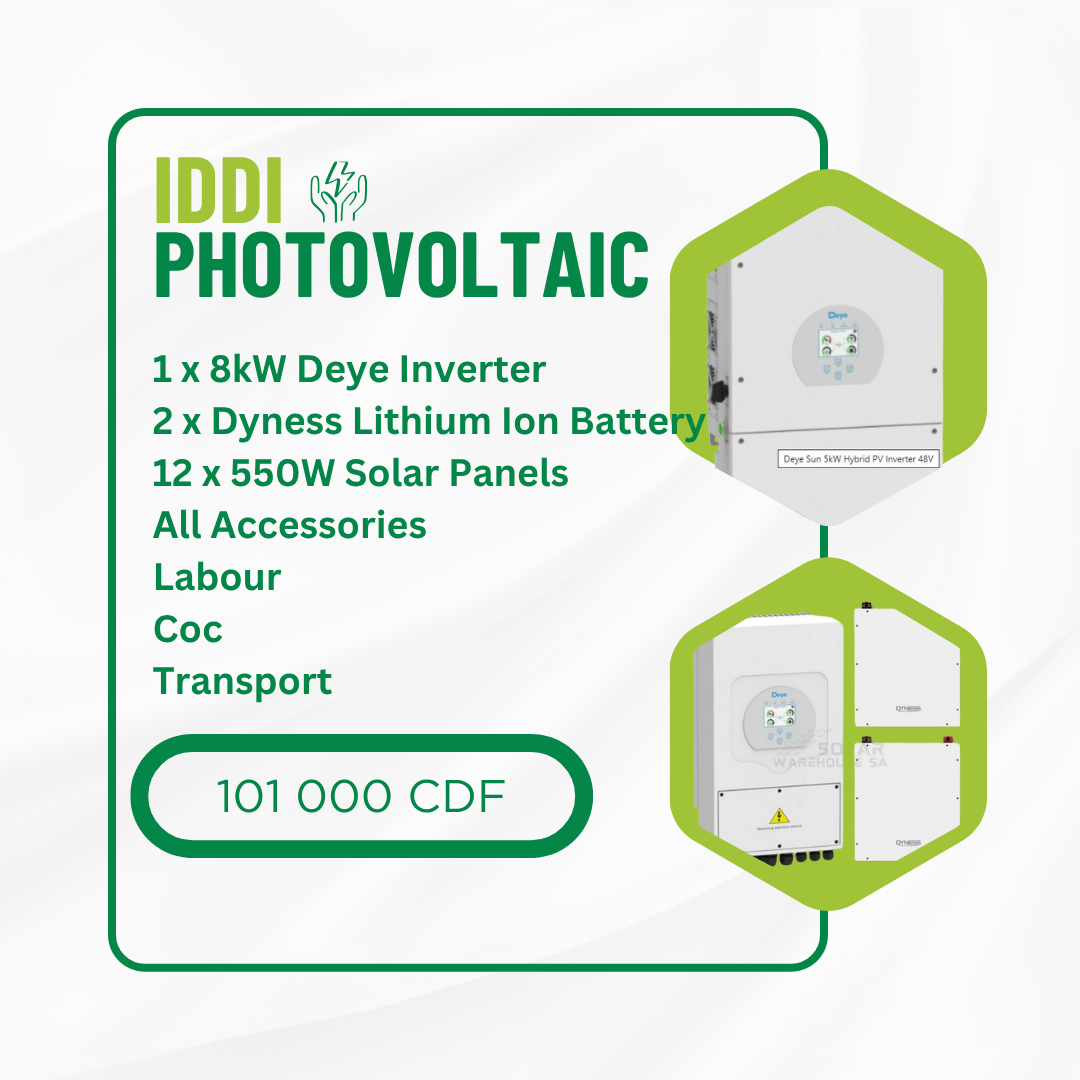
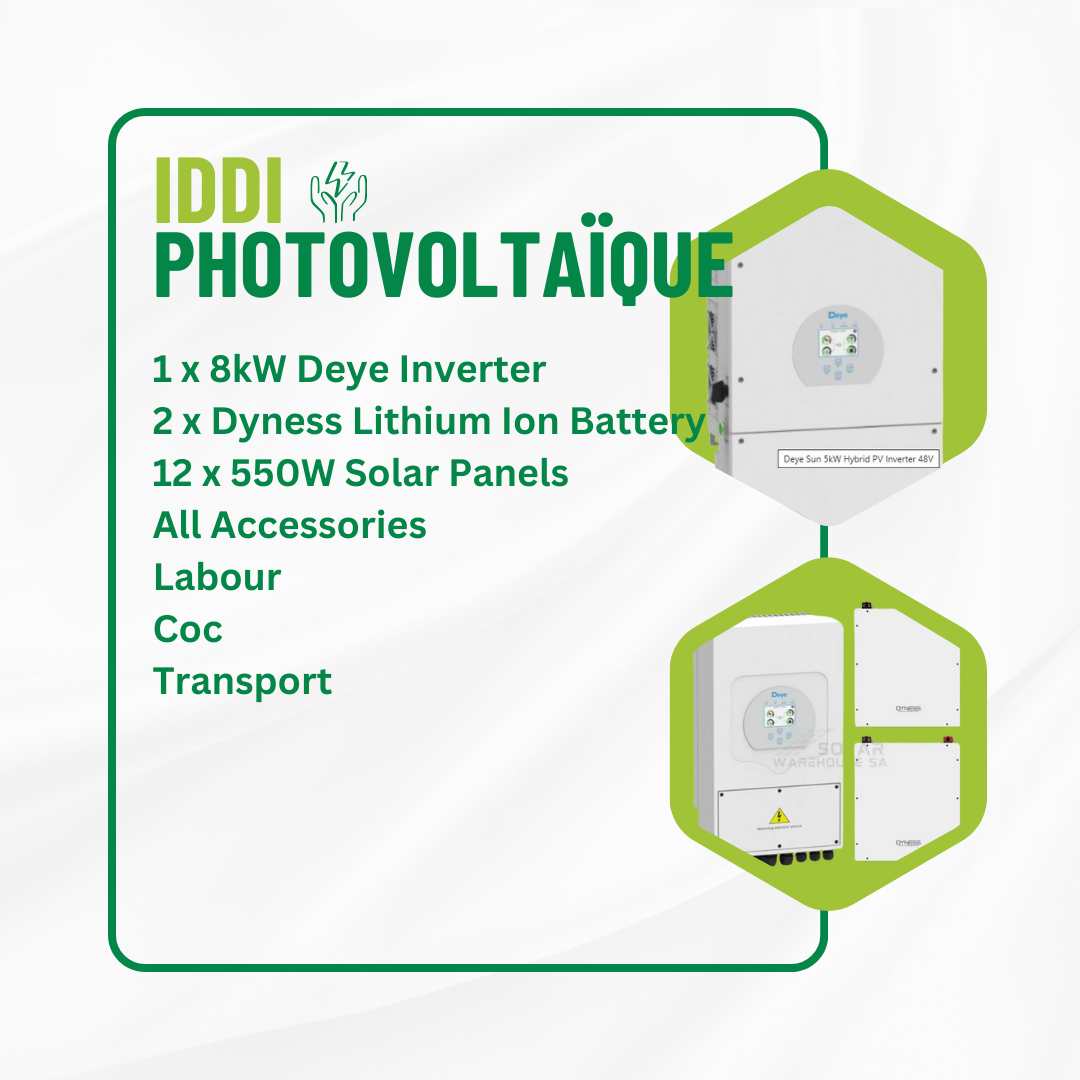
links and requested changes

diff --git a/index.html b/index.html
@@ -3,9 +3,7 @@
 
 <head>
    <meta charset="utf-8">
-<title>Iddi Photovoltaïque Énergie et Projets
-
- | Solutions Solaires, Produits & Services Écologiques</title>
+<title>Iddi Photovoltaïque Énergie et Projets | Solutions Solaires, Produits & Services Écologiques</title>
 <meta name="viewport" content="width=device-width, initial-scale=1.0">
 <meta name="keywords" content="Iddi Photovoltaïque Énergie et Projets
 
@@ -62,18 +60,19 @@
                 </div>
             </div>
             <div class="col-lg-5 px-5 text-end">
-                <div class="h-100 d-inline-flex align-items-center me-4">
-                    <small class="fa fa-phone-alt text-primary me-2"></small>
-                    <small>012 345 6789</small>
-                </div>
-                <div class="h-100 d-inline-flex align-items-center mx-n2">
+                 <a href="https://wa.me/27722226329?text=Bonjour%2C%20j%27ai%20vu%20votre%20site%20web%20et%20je%20suis%20intéressé%20par%20vos%20services"
+         target="_blank" class="h-100 d-inline-flex align-items-center me-4">
+                    <small class="fa fa-whatsapp text-primary me-2"></small>
+                    <small>+27 67 538 1586</small>
+                 </a> 
+                                  <!--  <div class="h-100 d-inline-flex align-items-center mx-n2">
                     <a class="btn btn-square btn-link rounded-0 border-0 border-end border-secondary" href=""><i
-                            class="fab fa-facebook-f"></i></a>
-                    <a class="btn btn-square btn-link rounded-0 border-0 border-end border-secondary" href=""><i
+                            class="fab fa-whatsapp"></i></a>
+ <a class="btn btn-square btn-link rounded-0 border-0 border-end border-secondary" href=""><i
                             class="fab fa-twitter"></i></a>
                     <a class="btn btn-square btn-link rounded-0 border-0 border-end border-secondary" href=""><i
                             class="fab fa-linkedin-in"></i></a>
-                    <a class="btn btn-square btn-link rounded-0" href=""><i class="fab fa-instagram"></i></a>
+                    <a class="btn btn-square btn-link rounded-0" href=""><i class="fab fa-instagram"></i></a> -->
                 </div>
             </div>
         </div>
@@ -92,18 +91,18 @@
         <button type="button" class="navbar-toggler me-4" data-bs-toggle="collapse" data-bs-target="#navbarCollapse">
             <span class="navbar-toggler-icon"></span>
         </button>
-        <div class="collapse navbar-collapse" id="navbarCollapse">
-            <div class="navbar-nav ms-auto p-4 p-lg-0">
-                <a href="#" class="nav-item nav-link active">Home</a>
-                <a href="#about" class="nav-item nav-link">About</a>
-                <a href="#services" class="nav-item nav-link">Service</a>
-                <a href="#products" class="nav-item nav-link">Products</a>
-        
-                <a href="#contacts" class="nav-item nav-link">Contact</a>
-            </div>
-            <a href="" class="btn btn-primary rounded-0 py-4 px-lg-5 d-none d-lg-block">Get A Quote<i
-                    class="fa fa-arrow-right ms-3"></i></a>
-        </div>
+      <div class="collapse navbar-collapse" id="navbarCollapse">
+    <div class="navbar-nav ms-auto p-4 p-lg-0">
+        <a href="#" class="nav-item nav-link active">Accueil</a>
+        <a href="#about" class="nav-item nav-link">propos</a>
+        <a href="#services" class="nav-item nav-link">Service</a>
+        <a href="#products" class="nav-item nav-link">Produits</a>
+        <a href="#contacts" class="nav-item nav-link">Contact</a>
+    </div>
+    <a href="#contacts" class="btn btn-primary rounded-0 py-4 px-lg-5 d-none d-lg-block">Obtenir un devis<i
+            class="fa fa-arrow-right ms-3"></i></a>
+</div>
+
     </nav>
     <!-- Navbar End -->
 
@@ -124,7 +123,7 @@
                                 d’assurer un fonctionnement ininterrompu et de renforcer leur image écoresponsable. 
                                 Idéal pour les bureaux, magasins et complexes commerciaux.
                             </p>
-                            <a href="" class="btn btn-primary rounded-pill py-3 px-5 animated slideInLeft">Obtenir un devis</a>
+                            <!-- <a href="" class="btn btn-primary rounded-pill py-3 px-5 animated slideInLeft">Obtenir un devis</a> -->
                         </div>
                     </div>
                 </div>
@@ -143,7 +142,7 @@
                                 Nos systèmes solaires et solutions de secours pour l’industrie assurent une alimentation stable, 
                                 optimisent la consommation et réduisent les temps d’arrêt, même lors de coupures prolongées.
                             </p>
-                            <a href="" class="btn btn-primary rounded-pill py-3 px-5 animated slideInLeft">Obtenir un devis</a>
+                            <!-- <a href="" class="btn btn-primary rounded-pill py-3 px-5 animated slideInLeft">Obtenir un devis</a> -->
                         </div>
                     </div>
                 </div>
@@ -163,7 +162,7 @@
                                 réduisent vos factures et garantissent une alimentation fiable pour votre maison, 
                                 même en cas de délestage.
                             </p>
-                            <a href="" class="btn btn-primary rounded-pill py-3 px-5 animated slideInLeft">Obtenir un devis</a>
+                            <!-- <a href="" class="btn btn-primary rounded-pill py-3 px-5 animated slideInLeft">Obtenir un devis</a> -->
                         </div>
                     </div>
                 </div>
@@ -194,7 +193,6 @@
                 <div class="item" style="--position: 10"><img src="img/flag_drc.png" alt=""></div>
             </div>
         </div>
-
        
 <!--  Auto-Slider End -->
 
@@ -239,7 +237,7 @@
 <!-- Feature End -->
 
    <!-- About Start -->
-<section id="äbout">
+<section id="about">
 <div class="container-fluid bg-light overflow-hidden my-5 px-lg-0">
     <div class="container about px-lg-0">
         <div class="row g-0 mx-lg-0">
@@ -264,7 +262,7 @@
                     <p><i class="fa fa-check-circle text-primary me-3"></i>Solutions solaires fiables pour l’indépendance énergétique et les économies de coûts.</p>
                     <p><i class="fa fa-check-circle text-primary me-3"></i>Installations expertes avec des systèmes de haute qualité et une efficacité à long terme.</p>
                     <p><i class="fa fa-check-circle text-primary me-3"></i>Engagés pour la durabilité et la résolution des défis énergétiques en Afrique du Sud.</p>
-                    <a href="" class="btn btn-primary rounded-pill py-3 px-5 mt-3">Obtenir un devis</a>
+                    <!-- <a href="" class="btn btn-primary rounded-pill py-3 px-5 mt-3">Obtenir un devis</a> -->
                 </div>
             </div>
         </div>
@@ -688,11 +686,9 @@
             <div class="col-lg-3 col-md-6">
                 <h5 class="text-white mb-4">Adresse</h5>
                 <!-- <p class="mb-2"><i class="fa fa-map-marker-alt me-3"></i>123 Street, New York, USA</p> -->
-                <p class="mb-2"><i class="fa fa-phone-alt me-3"></i>012 345 6789</p>
-                <p class="mb-2"><i class="fa fa-envelope me-3"></i>info@Iddi Photovoltaïque Énergie et Projets
-
-.co.za</p>
-                <div class="d-flex pt-2">
+                <p class="mb-2"><i class="fa fa-whatsapp me-3"></i>067 538 1586</p>
+                <p class="mb-2"><i class="fa fa-envelope me-3"></i>info@iddiphotovoltaic.co.za</p>
+                <!-- <div class="d-flex pt-2">
                     <a class="btn btn-square btn-outline-light btn-social" href=""><i
                             class="fab fa-twitter"></i></a>
                     <a class="btn btn-square btn-outline-light btn-social" href=""><i
@@ -701,15 +697,13 @@
                             class="fab fa-whatsapp"></i></a>
                     <a class="btn btn-square btn-outline-light btn-social" href=""><i
                             class="fab fa-linkedin-in"></i></a>
-                </div>
+                </div> -->
             </div>
             <div class="col-lg-3 col-md-6">
                 <h5 class="text-white mb-4">Liens rapides</h5>
-                <a class="btn btn-link" href="">À propos de nous</a>
-                <a class="btn btn-link" href="">Contactez-nous</a>
-                <a class="btn btn-link" href="">Nos services</a>
-                <a class="btn btn-link" href="">Termes & Conditions</a>
-                <a class="btn btn-link" href="">Support</a>
+                <a class="btn btn-link" href="#about">À propos de nous</a>
+                <a class="btn btn-link" href="#contacts">Contactez-nous</a>
+                <a class="btn btn-link" href="#services">Nos services</a>
             </div>
             <div class="col-lg-3 col-md-6">
                 <h5 class="text-white mb-4">Galerie de projets</h5>
@@ -746,9 +740,9 @@
         <div class="copyright">
             <div class="row">
                 <div class="col-md-6 text-center text-md-start mb-3 mb-md-0">
-                    &copy; <a href="#">Iddi Photovoltaïque Énergie et Projets
+                    &copy; Iddi Photovoltaïque Énergie et Projets
 
-</a>, Tous droits réservés.
+, Tous droits réservés.
                 </div>
                 <div class="col-md-6 text-center text-md-end">
                     Conçu par <a href="https://sekwaticode.online">sekwaticode</a>

diff --git a/js/main.js b/js/main.js
@@ -131,6 +131,7 @@ document.addEventListener("DOMContentLoaded", function () {
             }
         }
     });
+// Whatsapp
 
 
     // Portfolio isotope and filter
